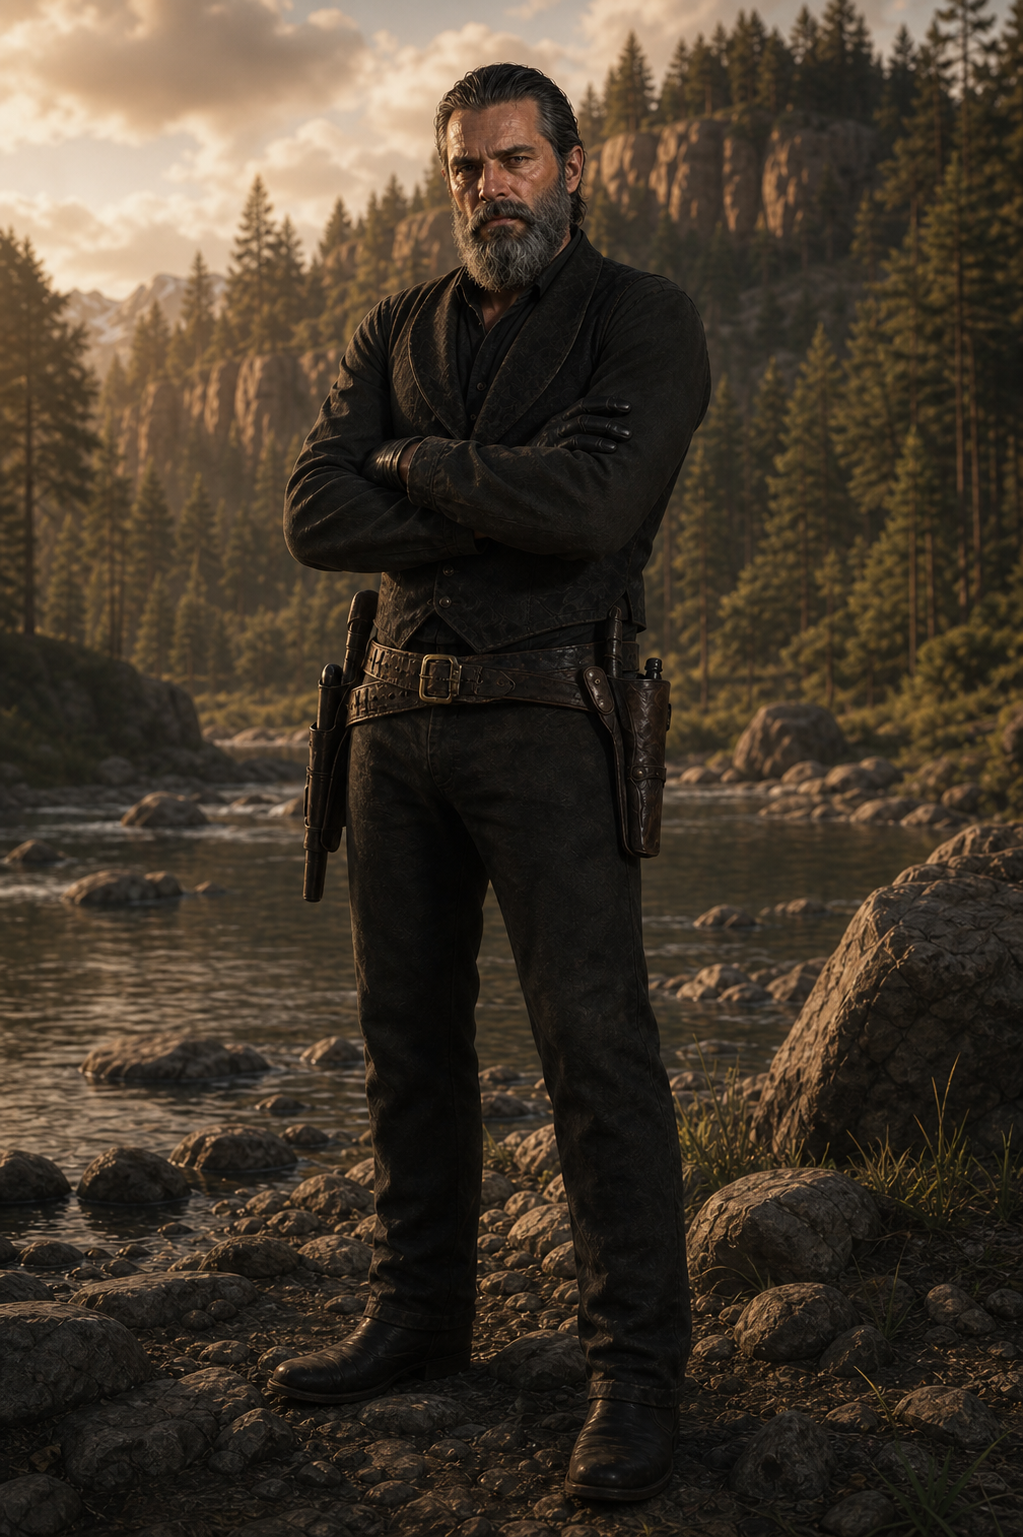
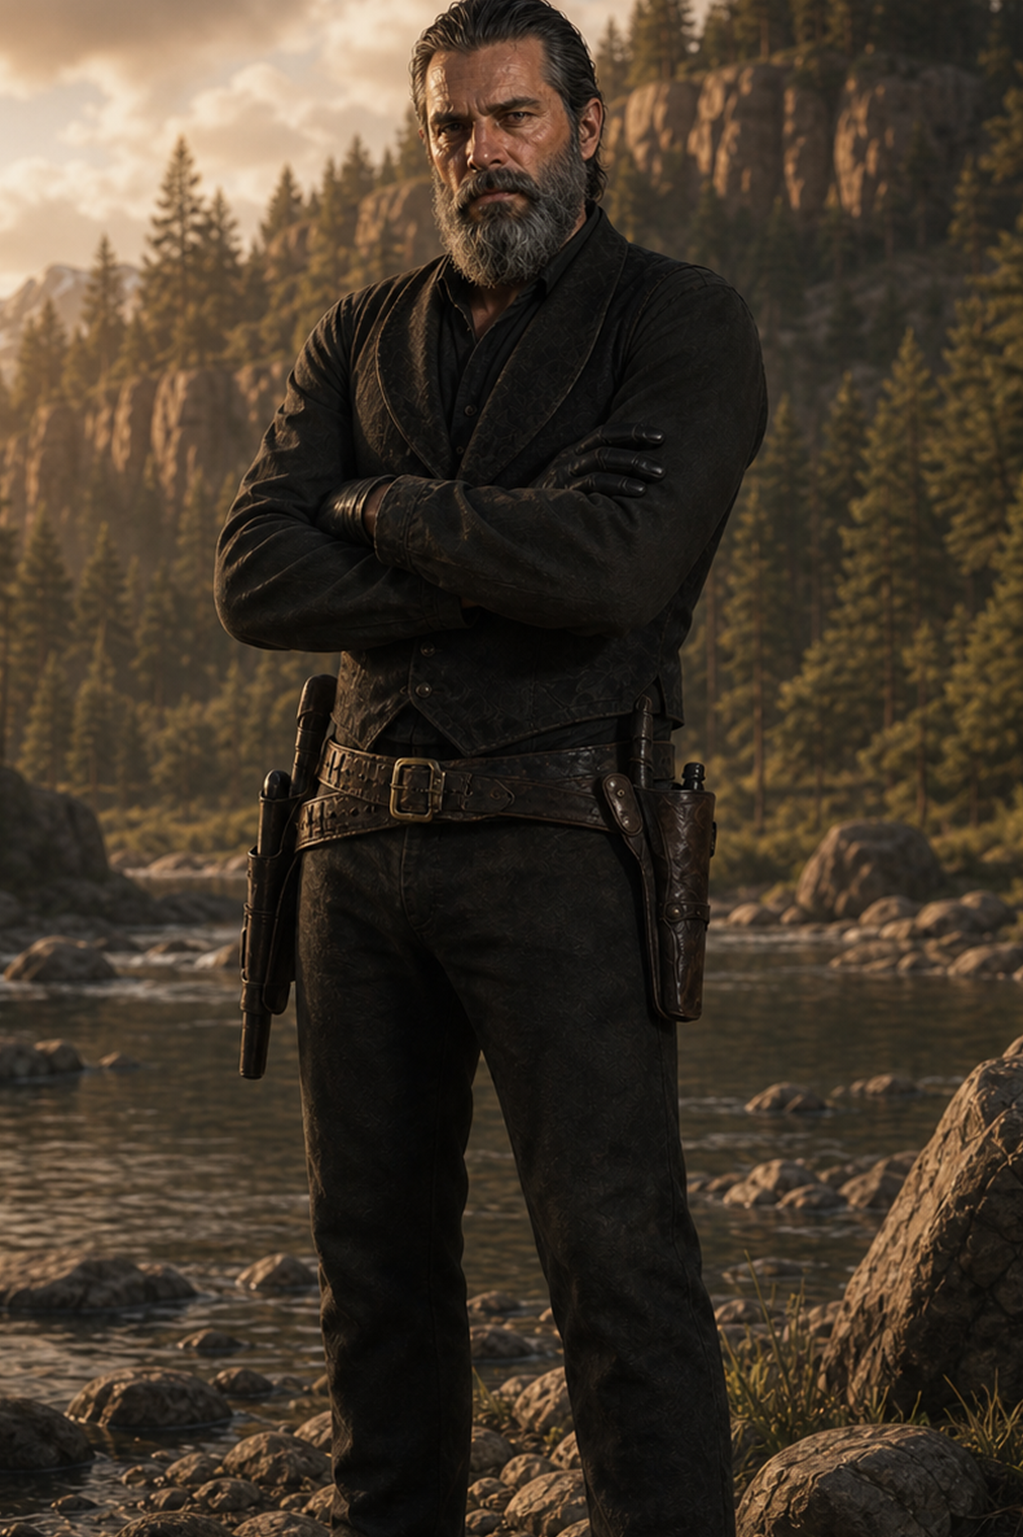
Vymenit Violet a priblizit portrety postav

diff --git a/styles.css b/styles.css
@@ -701,7 +701,7 @@ button:disabled { cursor: not-allowed; opacity: 0.48; }
   gap: 8px;
   align-items: start;
   width: 100%;
-  min-height: 224px;
+  min-height: 250px;
   padding: 10px;
   border: 1px solid rgba(200, 154, 84, 0.18);
   border-radius: 8px;
@@ -720,10 +720,10 @@ button:disabled { cursor: not-allowed; opacity: 0.48; }
 }
 .member-row img {
   width: 100%;
-  height: 94px;
+  height: 120px;
   border-radius: 7px;
   object-fit: cover;
-  object-position: center top;
+  object-position: center 18%;
 }
 .member-main {
   display: grid;